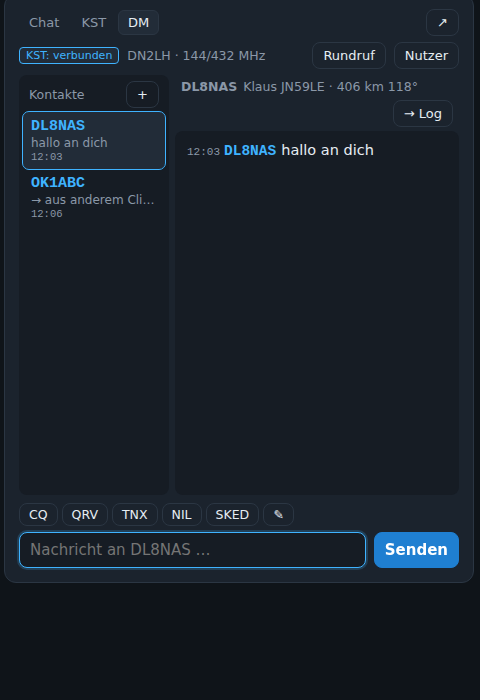
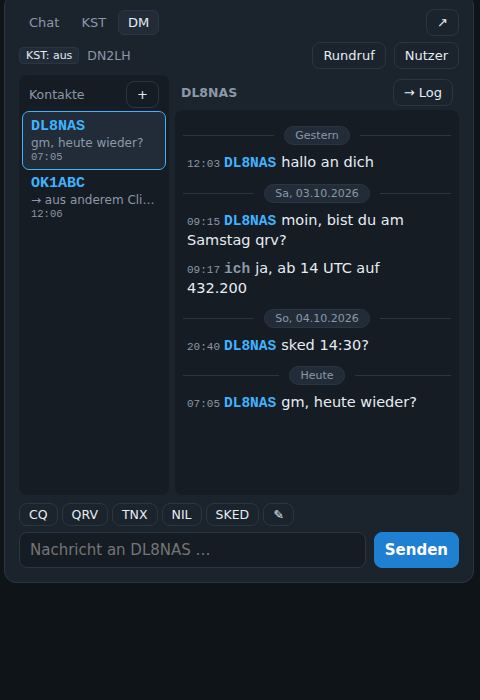
Karte: Pfeil trifft den Partnerpunkt, lesbares Label, größere Karte mit Flugzeugen; Tagestrenner im Chat; Verwaltung aufgeräumt
- Richtungspfeil als SVG, die Spitze liegt exakt auf dem Partnerpunkt; Stations-Label mit lesbarem Hintergrund neben dem Punkt (Logger und Operator)
- Flugzeuge: Karte wird mit eingeschalteter Flugzeug-Ebene höher (420 px), Einträge in der Liste sind anklickbar und
  springen mit der Karte zum Flugzeug (Logger und Operator-Fenster)
- Chat, KST und DM: Trennzeile mit Datum vor der ersten Nachricht eines neuen Tages („Heute“, „Gestern“, Wochentag + Datum)
- DM: beim Stations-/Contestwechsel wird das jüngste Gespräch der Station gezeigt statt des Partners der alten Station
  (der dort keinen Verlauf hatte); ohne Auswahl ist das jüngste Gespräch offen
- Operator-Fenster: alle Kacheln zentriert wie Entfernung/Richtung
- Verwaltung: ON4KST-Karte entfernt (steht bei der Station), Stationsdatenbank direkt unter den Contests, Formular
  als saubere Zeile, Repo-URL-Feld entfernt, „Nach neuen suchen (Repo)“ in die Updates-Karte, Repo-Export nur Betreuer
- Wiki (Chat/KST, Flugzeug-Scatter, Verwaltung, Updates, Stationsdatenbank) und Screenshots aktualisiert

diff --git a/contestlogger/static/app.js b/contestlogger/static/app.js
@@ -123,6 +123,18 @@
   const fromTpl = (id) => { const f = document.getElementById(id).content.cloneNode(true); const d = document.createElement("div"); d.append(f); translateDom(d); const out = document.createDocumentFragment(); while (d.firstChild) out.append(d.firstChild); return out; };
   const fmtTime = (ts) => ts ? ts.slice(11, 16) : "";
   const fmtDate = (ts) => ts ? `${ts.slice(8, 10)}.${ts.slice(5, 7)}.${ts.slice(0, 4)}` : "";
+  const WEEKDAYS = ["So", "Mo", "Di", "Mi", "Do", "Fr", "Sa"];
+  function dayLabel(ts) {  // „Heute“, „Gestern“ oder „Sa, 03.05.2025“ (UTC-Datum)
+    if (!ts) return ""; const d = ts.slice(0, 10); const now = new Date(); const today = now.toISOString().slice(0, 10);
+    const y = new Date(now.getTime() - 864e5).toISOString().slice(0, 10);
+    if (d === today) return t("Heute"); if (d === y) return t("Gestern");
+    return `${t(WEEKDAYS[new Date(d + "T00:00:00Z").getUTCDay()])}, ${fmtDate(ts)}`;
+  }
+  // Trenner einfügen, wenn der Tag der Nachricht vom zuletzt gezeigten abweicht (Zustand am Container)
+  function daySeparator(log, ts) {
+    const d = (ts || "").slice(0, 10); if (!d || log.dataset.lastDay === d) return;
+    log.dataset.lastDay = d; log.append(el("div", { class: "day" }, el("span", {}, dayLabel(ts))));
+  }
   const pad3 = (n) => String(n ?? "").padStart(3, "0");
   const station = () => S.contests.flatMap((c) => c.stations).find((s) => s.id === S.stationId);
   const contest = () => S.contests.find((c) => c.id === S.contestId);
@@ -868,8 +880,9 @@
     // Pfeilspitze in Linienrichtung
     const p1 = pts[pts.length - 2], p2 = pts[pts.length - 1];
     const ang = Math.atan2((p2[1] - p1[1]) * Math.cos(p2[0] * Math.PI / 180), p2[0] - p1[0]) * 180 / Math.PI;
-    L.marker(b, { icon: L.divIcon({ className: "arrow-icon", html: `<div style="transform:rotate(${ang - 90}deg)">➤</div>`, iconSize: [26, 26], iconAnchor: [13, 13] }), interactive: false }).addTo(m.layer);
-    if (label) L.marker(b, { icon: L.divIcon({ className: "map-label", html: label, iconAnchor: [-10, -10] }), interactive: false }).addTo(m.layer);
+    // Pfeilspitze: Spitze liegt genau auf dem Partnerpunkt, Körper zeigt entlang der Linie zurück
+    L.marker(b, { icon: L.divIcon({ className: "arrow-icon", html: `<svg viewBox="0 0 32 32" width="32" height="32" style="transform:rotate(${ang}deg)"><path d="M16 16 L25 31 L16 25 L7 31 Z" fill="#ff5c6c" stroke="#000" stroke-width="1"/></svg>`, iconSize: [32, 32], iconAnchor: [16, 16] }), interactive: false }).addTo(m.layer);
+    if (label) L.marker(b, { icon: L.divIcon({ className: "map-label", html: label, iconAnchor: [-18, 11] }), interactive: false }).addTo(m.layer);
     m.map.fitBounds(L.latLngBounds(pts), { padding: [30, 30], maxZoom: 9 });
   }
   function updateLogMap() {
@@ -908,10 +921,10 @@
       : `${t("kreuzt die Verlängerung des Pfads")} (km ${p.cross.km}) ${t("in")} ${p.eta_min != null ? Math.round(p.eta_min) : "> 60"} min`);
     return lines.join("<br>");
   }
-  function planeChip(p) {
+  function planeChip(p, onclick) {
     const txt = p.status === "soon" && p.cross ? `${p.flight || p.hex} ${p.type} FL${p.fl} · ${t("kreuzt in")} ${Math.round(p.eta_min)} min ${t("bei km")} ${p.cross.km} (${p.cross.utc.slice(0, 5)}) · +${km1(p.cross.margin_m || 0)} km`
       : `${p.flight || p.hex} ${p.type} FL${p.fl} · ${Math.abs(p.xt_km)} km ${t("vom Pfad")} · km ${p.at_km} · ${p.margin_m > 0 ? "+" : ""}${km1(p.margin_m)} km`;
-    const s = el("span", { class: `pl ${p.status}` }, (p.size === "heavy" ? "✈✈ " : "✈ ") + txt); s.innerHTML_title = 1; s.title = planeTitle(p).replace(/<[^>]+>/g, ""); return s;
+    const s = el("span", { class: `pl ${p.status}`, onclick, title: planeTitle(p).replace(/<[^>]+>/g, "") + "\n" + t("Klicken: Karte dorthin") }, (p.size === "heavy" ? "✈✈ " : "✈ ") + txt); return s;
   }
   function planeProfile(r) {
     // Seitenansicht: x = km entlang des Pfads, y = Höhe; Kurve = Mindesthöhe (Funkhorizont beider Stationen), Punkte = Flugzeuge
@@ -931,7 +944,10 @@
     on: localStorage.getItem("cl.planes") === "1", timer: null, last: "", busy: false, profile: localStorage.getItem("cl.planes.profile") !== "0",
     layer() { const m = makeMap("map-log"); if (!m) return null; if (!m.planes) { m.planes = L.layerGroup().addTo(m.map); m.zone = L.layerGroup().addTo(m.map); } return m; },
     toggle() { this.on = !this.on; localStorage.setItem("cl.planes", this.on ? "1" : "0"); $("#btn-planes").classList.toggle("active", this.on); $("#plane-list").classList.toggle("hidden", !this.on);
-      if (this.on) this.refresh(true); else { this.stop(); const m = this.layer(); if (m) { m.planes.clearLayers(); m.zone.clearLayers(); } } },
+      this.size(); if (this.on) this.refresh(true); else { this.stop(); const m = this.layer(); if (m) { m.planes.clearLayers(); m.zone.clearLayers(); } } },
+    size() { $(".map-card").classList.toggle("planes-on", this.on); const m = Maps["map-log"]; if (m) setTimeout(() => m.map.invalidateSize(), 250); },
+    markers: {},
+    goTo(p) { const m = this.layer(); if (!m) return; m.map.setView([p.lat, p.lon], Math.max(m.map.getZoom(), 8)); this.markers[p.hex]?.openTooltip(); },
     stop() { clearTimeout(this.timer); this.timer = null; },
     async refresh(now) {
       this.stop(); if (!this.on) return;
@@ -947,11 +963,11 @@
     },
     draw(r) {
       const m = this.layer(); if (!m) return;
-      m.planes.clearLayers(); m.zone.clearLayers();
+      m.planes.clearLayers(); m.zone.clearLayers(); this.markers = {};
       if (r.zone) L.polyline([r.zone.from, r.zone.to], { color: "#3ddc84", weight: 9, opacity: .45 }).bindTooltip(t("Zone gemeinsamer Sichtbarkeit (Reiseflughöhe): km {a}–{b} des Pfads", { a: r.zone.from_km, b: r.zone.to_km })).addTo(m.zone);
       for (const p of r.planes) {
         const st = p.status || (p.visible_both ? "visible" : "far"); const big = st === "hot" || p.size === "heavy";
-        L.marker([p.lat, p.lon], { icon: L.divIcon({ className: "plane-icon", html: `<div style="transform:rotate(${(p.track || 0) - 45}deg);color:${PLANE_COL[st]};font-size:${big ? 22 : 16}px">✈</div>`, iconSize: [24, 24], iconAnchor: [12, 12] }), interactive: true })
+        this.markers[p.hex] = L.marker([p.lat, p.lon], { icon: L.divIcon({ className: "plane-icon", html: `<div style="transform:rotate(${(p.track || 0) - 45}deg);color:${PLANE_COL[st]};font-size:${big ? 22 : 16}px">✈</div>`, iconSize: [24, 24], iconAnchor: [12, 12] }), interactive: true })
           .bindTooltip(planeTitle(p), { className: "plane-tip", direction: "top", offset: [0, -10] }).addTo(m.planes);
         if (p.cross && p.cross.on_path && (st === "soon" || st === "hot")) {  // vorhergesagter Kreuzungspunkt
           const frac = Math.max(0, Math.min(1, p.cross.km / r.dist_km)); const pt = pointAlong(r.path_from, r.path_to, frac);
@@ -962,14 +978,14 @@
       const hot = r.planes.filter((p) => p.status === "hot"), soon = r.planes.filter((p) => p.status === "soon");
       box.append(el("span", { class: "muted small" }, r.other ? `✈ ${r.planes.length} ${t("Flugzeuge")} · ${t("Korridor")} ±${r.corridor_km} km · ${r.zone ? t("Zone km {a}–{b}", { a: r.zone.from_km, b: r.zone.to_km }) : t("keine gemeinsame Sichtbarkeit (Pfad zu lang)")}` : `✈ ${r.planes.length} ${t("Flugzeuge im Umkreis")} – ${t("Locator eingeben für Pfad-Auswertung")}`),
         r.other ? el("button", { type: "button", class: "ghost small", title: t("Seitenansicht des Pfads (Mindesthöhe, Flugzeuge) ein-/ausblenden"), onclick: () => { this.profile = !this.profile; localStorage.setItem("cl.planes.profile", this.profile ? "1" : "0"); this.draw(r); } }, t("Profil")) : null);
-      for (const p of hot.slice(0, 5)) box.append(planeChip(p));
-      for (const p of soon.slice(0, 4)) box.append(planeChip(p));
+      for (const p of hot.slice(0, 5)) box.append(planeChip(p, () => this.goTo(p)));
+      for (const p of soon.slice(0, 4)) box.append(planeChip(p, () => this.goTo(p)));
       box.append(el("span", { class: "muted small attrib" }, r.attribution));
       if (this.profile && r.other) { const pr = planeProfile(r); if (pr) box.append(pr); }
     },
   };
   $("#btn-planes").addEventListener("click", () => Planes.toggle());
-  if (Planes.on) { $("#btn-planes").classList.add("active"); $("#plane-list").classList.remove("hidden"); setTimeout(() => Planes.refresh(true), 1500); }
+  if (Planes.on) { $("#btn-planes").classList.add("active"); $("#plane-list").classList.remove("hidden"); Planes.size(); setTimeout(() => Planes.refresh(true), 1500); }
   $("#adsb-form").addEventListener("submit", async (e) => {
     e.preventDefault();
     try { await api("POST", "/api/settings", { adsb_source: $("#adsb-source").value, adsb_local_url: $("#adsb-local").value.trim(), adsb_corridor_km: $("#adsb-corridor").value, adsb_antenna_m: $("#adsb-antenna").value }); toast(t("Einstellungen gespeichert"), "ok"); } catch (err) { toast(err.message, "err"); }
@@ -1084,12 +1100,13 @@
   };
   $$(".logwrap").forEach((w) => { const log = w.querySelector(".chat-log"); log.addEventListener("scroll", () => Scroll.update(log)); w.querySelector(".jump-down").addEventListener("click", () => Scroll.toBottom(log)); });
   async function loadChat() {
-    const log = $("#chat-log"); log.innerHTML = ""; S.chatContest = S.contestId;
+    const log = $("#chat-log"); log.innerHTML = ""; delete log.dataset.lastDay; S.chatContest = S.contestId;
     try { (await GET(`/api/chat?contest_id=${S.contestId || 0}`)).forEach(appendChat); } catch (_) { /* */ }
     Scroll.toBottom(log);
   }
   function appendChat(m) {
     const log = $("#chat-log"); const snap = Scroll.snapshot(log);
+    daySeparator(log, m.ts_utc);
     log.append(el("div", { class: "m" }, el("span", { class: "t" }, fmtTime(m.ts_utc)), el("span", { class: "n" }, m.nick + ": "), m.text));
     Scroll.restore(log, snap, m.nick === S.nick);
   }
@@ -1131,6 +1148,10 @@
       S.kst.msgs = await GET(`/api/kst/messages?${sidQ()}&limit=300`);
       S.kst.users = await GET(`/api/kst/users?${sidQ()}&my=${station()?.locator || ""}`);
     } catch (_) { /* */ }
+    // Beim Stationswechsel: der zuletzt offene DM-Partner gehört evtl. zur alten Station – dann das jüngste Gespräch dieser Station zeigen
+    const convs = dmConversations();
+    if (!S.kst.dm || !convs.find((c) => coreOf(c.call) === coreOf(S.kst.dm))) S.kst.dm = convs[0]?.call || "";
+    S.kst.dmShown = undefined;
     renderKstStatus(); renderKstUsers(); renderKst(); renderKstMacros();
   }
   function renderKstStatus() {
@@ -1196,10 +1217,11 @@
   }
   function renderKst() {
     const log = $("#kst-log"); const snap = Scroll.snapshot(log);
-    log.innerHTML = "";
+    log.innerHTML = ""; delete log.dataset.lastDay;
     const list = kstFiltered().slice(-400);
     for (const m of list) {
       const u = kstUser(m.call);
+      daySeparator(log, m.ts);
       log.append(el("div", { class: "m" + (m.to_me ? " me" : "") + (m.own ? " own" : "") },
         el("span", { class: "t" }, m.time),
         el("span", { class: "c", title: (u?.locator || m.locator || "") + " " + (m.name || ""), onclick: () => fillFromKst(m.call, u?.locator || m.locator) }, m.call),
@@ -1216,15 +1238,15 @@
       if (S.kst.dm) { const lastIn = [...list].reverse().find((m) => !m.own); const k = coreOf(S.kst.dm);
         if (lastIn && (S.kst.seen[k] || "") < lastIn.ts) { S.kst.seen[k] = lastIn.ts; api("POST", "/api/kst/seen", { station_id: S.stationId, partner: k, ts: lastIn.ts }).catch(() => {}); } }
       renderDmList();
-      const msgs = $("#kst-dm-msgs"); const dmSnap = Scroll.snapshot(msgs); const dmChanged = S.kst.dmShown !== S.kst.dm; S.kst.dmShown = S.kst.dm; msgs.innerHTML = "";
+      const msgs = $("#kst-dm-msgs"); const dmSnap = Scroll.snapshot(msgs); const dmChanged = S.kst.dmShown !== S.kst.dm; S.kst.dmShown = S.kst.dm; msgs.innerHTML = ""; delete msgs.dataset.lastDay;
       const u = S.kst.dm ? kstUser(S.kst.dm) : null;
       $("#kst-dm-head").innerHTML = "";
       if (S.kst.dm) {
         const dmLoc = u?.locator || list.find((m) => !m.own && m.locator)?.locator || "";
         $("#kst-dm-head").append(el("b", { class: "c", title: t("ins Log übernehmen"), onclick: () => fillFromKst(S.kst.dm, dmLoc) }, S.kst.dm), ` ${u?.name || ""} ${dmLoc}${u?.km != null ? ` · ${u.km} km ${u.bearing}°` : ""}`,
           el("button", { type: "button", class: "ghost small", style: "margin-left:auto", onclick: () => fillFromKst(S.kst.dm, dmLoc) }, "→ " + t("Log")));
-        for (const m of list) msgs.append(el("div", { class: "m" + (m.own ? " own" : "") }, el("span", { class: "t" }, m.time),
-          m.own ? el("span", { class: "c" }, t("ich")) : el("span", { class: "c", title: t("ins Log übernehmen"), onclick: () => fillFromKst(m.call, m.locator || dmLoc) }, m.call), el("span", { class: "txt" }, m.text)));
+        for (const m of list) { daySeparator(msgs, m.ts); msgs.append(el("div", { class: "m" + (m.own ? " own" : "") }, el("span", { class: "t" }, m.time),
+          m.own ? el("span", { class: "c" }, t("ich")) : el("span", { class: "c", title: t("ins Log übernehmen"), onclick: () => fillFromKst(m.call, m.locator || dmLoc) }, m.call), el("span", { class: "txt" }, m.text))); }
         if (!list.length) msgs.append(el("div", { class: "sys" }, t("Noch keine Nachrichten in diesem Gespräch.")));
         Scroll.restore(msgs, dmSnap, dmChanged);
       } else $("#kst-dm-head").textContent = t("Kontakt wählen");
@@ -1570,7 +1592,7 @@
       const cfg = await GET("/api/settings"); $("#lookup-provider").value = cfg.lookup_provider; $("#lookup-user").value = cfg.lookup_user || ""; $("#lookup-pass").placeholder = cfg.lookup_pass_set ? t("Passwort (gespeichert)") : t("Passwort");
       S.kstRooms = cfg.kst_rooms || {};
       $("#adsb-source").value = cfg.adsb_source || "adsb.fi"; $("#adsb-local").value = cfg.adsb_local_url || ""; $("#adsb-corridor").value = cfg.adsb_corridor_km ?? 12; $("#adsb-antenna").value = cfg.adsb_antenna_m ?? 15;
-      $("#repo-url").value = cfg.repo_url || ""; $("#upd-auto").checked = cfg.update_check !== false; $("#upd-current").textContent = `v${S.info.version}`;
+      $("#upd-auto").checked = cfg.update_check !== false; $("#upd-current").textContent = `v${S.info.version}`;
       if (S.update?.available) { $("#upd-result").textContent = t("Neue Version {v} verfügbar", { v: S.update.latest }); $("#btn-upd-apply").classList.toggle("hidden", !S.update.can_self_update); }
     } catch (_) { /* */ }
     renderBackups(); renderCallbook(); renderAudit();
@@ -1618,11 +1640,6 @@
   $("#btn-add-template").addEventListener("click", async () => {
     const tid = Number($("#tpl-add-sel").value); if (!tid || !S.contestId) return toast(t("Erst globale Station und Contest wählen"), "err");
     try { await api("POST", `/api/contests/${S.contestId}/stations/from_template`, { template_id: tid }); toast(t("Station aufgenommen"), "ok"); } catch (err) { toast(err.message, "err"); }
-  });
-  $("#repo-form").addEventListener("submit", async (e) => {
-    e.preventDefault();
-    const body = { repo_url: $("#repo-url").value.trim() };
-    try { await api("POST", "/api/settings", body); toast(t("Einstellungen gespeichert"), "ok"); renderAdmin(); } catch (err) { toast(err.message, "err"); }
   });
   $("#cb-list-form").addEventListener("submit", async (e) => {
     e.preventDefault(); const f = $("#cb-list-file").files[0]; if (!f) return;

diff --git a/contestlogger/static/index.html b/contestlogger/static/index.html
@@ -196,6 +196,24 @@
         <div class="table-wrap"><table id="admin-contests" class="compact fixed"><tbody></tbody></table></div>
       </div>
       <div class="card">
+        <h3>Stationsdatenbank (Call-Buch)</h3>
+        <p class="muted"><span id="cb-count">0</span> Rufzeichen mit Locator bekannt. Wächst automatisch mit jedem geloggten QSO und jedem Import; beim ersten Start wird die mitgelieferte Startdatenbank geladen.</p>
+        <input id="cb-search" placeholder="Suchen (Call, Locator, Name) …" class="small">
+        <div class="table-wrap" style="max-height:260px"><table id="cb-table" class="compact"><tbody></tbody></table></div>
+        <form id="cb-form" class="cb-form">
+          <input id="cb-call" placeholder="Rufzeichen" required><input id="cb-loc" placeholder="Locator" required><input id="cb-name" placeholder="Name"><input id="cb-dok" placeholder="DOK" maxlength="8"><button class="ghost">Speichern</button>
+        </form>
+        <div class="row cb-actions">
+          <a href="/api/callbook/export.csv" class="button ghost" download>Stationsdatenbank exportieren (CSV)</a>
+          <a href="/api/callbook/export_seed.csv" class="button ghost maint-only" download title="Call;Locator;Zuletzt;DOK – zum Einchecken als contestlogger/seed/stationsdatenbank.csv im Repo">Export im Repo-Format</a>
+        </div>
+        <p class="muted small maint-hide">Die Stationsdatenbank wird zentral gepflegt: „Nach neuen suchen (Repo)“ unter <b>Updates</b> holt die aktuelle Liste. Eigene Funde (neue Rufzeichen, Locator, DOKs) helfen allen – einfach „Stationsdatenbank exportieren (CSV)“ und die Datei an den Betreuer schicken, er pflegt sie in die Liste im Repo ein.</p>
+        <form id="cb-list-form" class="row maint-only">
+          <span class="tag">Betreuer</span><input type="file" id="cb-list-file" accept=".csv,.txt" required><button class="ghost small">Stationsliste einpflegen</button><span id="cb-list-result" class="muted small"></span>
+        </form>
+        <p class="muted small maint-only">Ablauf: „Export im Repo-Format“ herunterladen und als <code>contestlogger/seed/stationsdatenbank.csv</code> ins Repo einchecken; alle Installationen holen sie mit „Nach neuen suchen (Repo)“.</p>
+      </div>
+      <div class="card">
         <div class="card-head"><h3>Stationen im Contest <span id="admin-contest-name" class="muted"></span></h3><div class="row"><select id="tpl-add-sel" class="small"></select><button id="btn-add-template" class="primary small" title="Globale Station in diesen Contest aufnehmen">+ aufnehmen</button><button id="btn-new-station" class="ghost small" title="Station nur für diesen Contest anlegen">+ einmalig</button></div></div>
         <p class="muted small">Die Stationen dieses Contests mit eigenem Log und eigener laufender Nummer. Operatoren schalten die Station mit dem Passwort frei. Die Stations-ID (für CAT-Bridge und Operator-Fenster) steht in der Tabelle.</p>
         <div class="table-wrap"><table id="admin-stations" class="compact fixed"><tbody></tbody></table></div>
@@ -257,30 +275,6 @@
         </form>
       </div>
       <div class="card">
-        <h3>Stationsdatenbank (Call-Buch)</h3>
-        <p class="muted"><span id="cb-count">0</span> Rufzeichen mit Locator bekannt. Wächst automatisch mit jedem geloggten QSO und jedem Import; beim ersten Start wird die mitgelieferte Startdatenbank geladen.</p>
-        <input id="cb-search" placeholder="Suchen (Call, Locator, Name) …" class="small">
-        <div class="table-wrap" style="max-height:260px"><table id="cb-table" class="compact"><tbody></tbody></table></div>
-        <form id="cb-form" class="row">
-          <input id="cb-call" placeholder="Rufzeichen" required><input id="cb-loc" placeholder="Locator" required><input id="cb-name" placeholder="Name"><input id="cb-dok" placeholder="DOK" maxlength="8" style="max-width:90px"><button class="ghost">Speichern</button>
-        </form>
-        <div class="row">
-          <a href="/api/callbook/export.csv" class="button primary" download>Stationsdatenbank exportieren (CSV)</a>
-          <a href="/api/callbook/export_seed.csv" class="button ghost" download title="Call;Locator;Zuletzt – zum Einchecken als contestlogger/seed/stationsdatenbank.csv im Repo">Export im Repo-Format</a>
-          <button type="button" id="btn-cb-sync" class="ghost" title="Stationsdatenbank aus dem GitHub-Repo laden und neue Einträge übernehmen">Nach neuen suchen (Repo)</button>
-          <span id="cb-sync-result" class="muted small"></span>
-        </div>
-        <p class="muted small maint-hide">Die Stationsdatenbank wird zentral gepflegt: „Nach neuen suchen (Repo)“ holt die aktuelle Liste. Eigene Funde (neue Rufzeichen, Locator, DOKs) helfen allen – einfach „Stationsdatenbank exportieren (CSV)“ und die Datei an den Betreuer schicken, er pflegt sie in die Liste im Repo ein.</p>
-        <form id="cb-list-form" class="row maint-only">
-          <span class="tag">Betreuer</span><input type="file" id="cb-list-file" accept=".csv,.txt" required><button class="ghost small">Stationsliste einpflegen</button><span id="cb-list-result" class="muted small"></span>
-        </form>
-        <form id="repo-form" class="row">
-          <input id="repo-url" placeholder="Repo-Datei (GitHub-API-URL oder Raw-URL)" style="flex:1;min-width:260px">
-          <button class="ghost small">Speichern</button>
-        </form>
-        <p class="muted small">Ablauf: Hier „Export im Repo-Format“ herunterladen und als <code>contestlogger/seed/stationsdatenbank.csv</code> ins Repo einchecken; andere Installationen holen sie mit „Nach neuen suchen“.</p>
-      </div>
-      <div class="card">
         <h3>Backups auf dem Server</h3>
         <p class="muted small" id="backup-info">Der Server sichert die Datenbank automatisch (nur wenn sich etwas geändert hat) in den Ordner <code>backup/</code> neben der Datenbank; beim Beenden zusätzlich. Die Datenbank selbst läuft im WAL-Modus mit synchronem Schreiben – ein Stromausfall beschädigt sie nicht.</p>
         <p><button id="btn-backup" class="ghost">Jetzt sichern</button></p>
@@ -297,6 +291,11 @@
           <label class="row small"><input type="checkbox" id="upd-auto" checked> automatisch prüfen</label>
         </div>
         <div id="upd-result" class="muted small"></div>
+        <div class="row" style="margin-top:8px">
+          <b class="small">Stationsdatenbank</b>
+          <button type="button" id="btn-cb-sync" class="ghost" title="Stationsdatenbank aus dem GitHub-Repo laden und neue Einträge übernehmen">Nach neuen suchen (Repo)</button>
+          <span id="cb-sync-result" class="muted small"></span>
+        </div>
       </div>
       <div class="card">
         <h3>Aktionsprotokoll</h3>
@@ -317,10 +316,6 @@
           </div>
           <div id="lookup-result" class="muted small"></div>
         </form>
-      </div>
-      <div class="card">
-        <h3>ON4KST-Chat</h3>
-        <p class="muted small">Der KST-Chat (Telnet, <code>www.on4kst.info:23000</code>) wird <b>je Station</b> verbunden: Zugangsdaten, Raum und Autostart stehen bei der Station (Stationen → ✎). Jede Station hat so ihren eigenen Chat; die Nutzerliste wird alle 10 Minuten geholt und Nutzer mit Locator wandern automatisch in die Stationsdatenbank. Das Passwort geht im Klartext über das Netz – ein eigenes KST-Passwort verwenden.</p>
       </div>
       <div class="card">
         <h3>Karte</h3>

diff --git a/contestlogger/static/operator.html b/contestlogger/static/operator.html
@@ -25,7 +25,7 @@
   .dupe.hidden { display:none; }
   /* Reihenfolge wie im Logger: Rufzeichen · RST geg. · Nr geg. · RST erh. · Nr erh. · Locator · km/° */
   .tiles { display:grid; grid-template-columns: 2.2fr 1fr 1.2fr 1fr 1.2fr 1.5fr 1.6fr; gap:10px; }
-  .tile { background:var(--card); border:1px solid var(--line); border-radius:12px; padding:10px 12px; min-width:0; }
+  .tile { background:var(--card); border:1px solid var(--line); border-radius:12px; padding:10px 12px; min-width:0; text-align:center; }
   .tile span { display:block; color:var(--muted); font-size:13px; letter-spacing:.04em; text-transform:uppercase; }
   .tile b { display:block; font:700 clamp(26px, 3.8vw, 58px)/1.15 var(--mono); white-space:nowrap; overflow:hidden; text-overflow:ellipsis; }
   .tile.call b { color:var(--accent); }
@@ -58,8 +58,11 @@
   .pbtn.active { color:var(--warn); border-color:var(--warn); }
   .plist { display:flex; flex-wrap:wrap; gap:4px 10px; font:13px var(--mono); color:var(--muted); padding:4px 4px 0; min-height:0; }
   .plist:empty { display:none; }
+  .plist .pl { cursor:pointer; } .plist .pl:hover { text-decoration:underline; }
   .plist .hot { color:var(--warn); font-weight:700; }
-  .map-label { background:var(--card); color:var(--text); border:1px solid var(--line); border-radius:6px; padding:2px 6px; font-family:var(--mono); font-size:13px; white-space:nowrap; }
+  .map-label { background:rgba(18,22,28,.88); color:#fff; border:1px solid rgba(255,255,255,.25); border-radius:6px; padding:3px 7px; font-family:var(--mono); font-size:13px; white-space:nowrap; line-height:1.2; width:auto !important; height:auto !important; }
+  .leaflet-div-icon { background:transparent; border:none; }
+  .arrow-icon { background:transparent; border:none; filter:drop-shadow(0 0 3px rgba(0,0,0,.8)); }
   .list { min-height:0; background:var(--card); border:1px solid var(--line); border-radius:12px; overflow:auto; }
   table { width:100%; border-collapse:collapse; font:16px var(--mono); }
   th, td { padding:5px 9px; text-align:left; border-bottom:1px solid var(--line); white-space:nowrap; }
@@ -167,8 +170,9 @@
     L.polyline(pts, { color: "#ff5c6c", weight: 3, opacity: .9 }).addTo(m.layer);
     const p1 = pts[pts.length - 2], p2 = pts[pts.length - 1];
     const ang = Math.atan2((p2[1] - p1[1]) * Math.cos(p2[0] * Math.PI / 180), p2[0] - p1[0]) * 180 / Math.PI;
-    L.marker(b, { icon: L.divIcon({ className: "arrow-icon", html: `<div style="transform:rotate(${ang - 90}deg)">➤</div>`, iconSize: [26, 26], iconAnchor: [13, 13] }), interactive: false }).addTo(m.layer);
-    if (label) L.marker(b, { icon: L.divIcon({ className: "map-label", html: label, iconAnchor: [-10, -10] }), interactive: false }).addTo(m.layer);
+    // Pfeilspitze: Spitze liegt genau auf dem Partnerpunkt, Körper zeigt entlang der Linie zurück
+    L.marker(b, { icon: L.divIcon({ className: "arrow-icon", html: `<svg viewBox="0 0 32 32" width="32" height="32" style="transform:rotate(${ang}deg)"><path d="M16 16 L25 31 L16 25 L7 31 Z" fill="#ff5c6c" stroke="#000" stroke-width="1"/></svg>`, iconSize: [32, 32], iconAnchor: [16, 16] }), interactive: false }).addTo(m.layer);
+    if (label) L.marker(b, { icon: L.divIcon({ className: "map-label", html: label, iconAnchor: [-18, 11] }), interactive: false }).addTo(m.layer);
     m.map.fitBounds(L.latLngBounds(pts), { padding: [30, 30], maxZoom: 9 });
     $("#map-info").textContent = label || loc;
   }
@@ -261,10 +265,12 @@
         `FL${p.fl} = ${km1(p.alt_m)} km · ${p.gs_kmh} km/h · Kurs ${Math.round(p.track)}°`,
         `Mindesthöhe ${km1(p.req_m)} km → <b style="color:${p.margin_m > 0 ? "#3ddc84" : "#ff6b6b"}">${p.margin_m > 0 ? "+" : ""}${km1(p.margin_m)} km</b> Reserve · ${Math.abs(p.xt_km)} km vom Pfad · Elevation ${p.elev1}° / ${p.elev2}°`,
         p.cross && p.cross.on_path ? `<b>kreuzt in ${p.eta_min != null ? Math.round(p.eta_min) : "> 60"} min</b> um ${p.cross.utc} UTC bei km ${p.cross.km}${p.cross.in_zone ? " ✓ Zone" : ""}${p.cross.margin_m != null ? ` · dort ${p.cross.margin_m > 0 ? "+" : ""}${km1(p.cross.margin_m)} km` : ""}` : ""].filter(Boolean).join("<br>");
-      for (const p of r.planes) { const st = p.status || "far"; const big = st === "hot" || p.size === "heavy"; L.marker([p.lat, p.lon], { icon: L.divIcon({ className: "plane-icon", html: `<div style="transform:rotate(${(p.track || 0) - 45}deg);color:${COL[st]};font-size:${big ? 22 : 16}px">✈</div>`, iconSize: [24, 24], iconAnchor: [12, 12] }) }).bindTooltip(tip(p), { className: "plane-tip", direction: "top", offset: [0, -10] }).addTo(m.planes); }
+      const markers = {};
+      for (const p of r.planes) { const st = p.status || "far"; const big = st === "hot" || p.size === "heavy"; markers[p.hex] = L.marker([p.lat, p.lon], { icon: L.divIcon({ className: "plane-icon", html: `<div style="transform:rotate(${(p.track || 0) - 45}deg);color:${COL[st]};font-size:${big ? 22 : 16}px">✈</div>`, iconSize: [24, 24], iconAnchor: [12, 12] }) }).bindTooltip(tip(p), { className: "plane-tip", direction: "top", offset: [0, -10] }).addTo(m.planes); }
       const box = $("#plane-list"); box.innerHTML = "";
-      for (const p of r.planes.filter((p) => p.status === "hot").slice(0, 5)) { const s = document.createElement("span"); s.className = "hot"; s.textContent = `✈ ${p.flight || p.hex} ${p.type} FL${p.fl} · ${Math.abs(p.xt_km)} km vom Pfad · +${km1(p.margin_m)} km`; s.title = tip(p).replace(/<[^>]+>/g, ""); box.append(s); }
-      for (const p of r.planes.filter((p) => p.status === "soon").slice(0, 3)) { const s = document.createElement("span"); s.className = "soon"; s.textContent = `${p.flight || p.hex} kreuzt in ${Math.round(p.eta_min)} min bei km ${p.cross.km} (${p.cross.utc.slice(0, 5)} UTC)`; s.title = tip(p).replace(/<[^>]+>/g, ""); box.append(s); }
+      const goTo = (p) => { m.map.setView([p.lat, p.lon], Math.max(m.map.getZoom(), 8)); markers[p.hex]?.openTooltip(); };
+      for (const p of r.planes.filter((p) => p.status === "hot").slice(0, 5)) { const s = document.createElement("span"); s.className = "hot pl"; s.textContent = `✈ ${p.flight || p.hex} ${p.type} FL${p.fl} · ${Math.abs(p.xt_km)} km vom Pfad · +${km1(p.margin_m)} km`; s.title = tip(p).replace(/<[^>]+>/g, ""); s.onclick = () => goTo(p); box.append(s); }
+      for (const p of r.planes.filter((p) => p.status === "soon").slice(0, 3)) { const s = document.createElement("span"); s.className = "soon pl"; s.textContent = `${p.flight || p.hex} kreuzt in ${Math.round(p.eta_min)} min bei km ${p.cross.km} (${p.cross.utc.slice(0, 5)} UTC)`; s.title = tip(p).replace(/<[^>]+>/g, ""); s.onclick = () => goTo(p); box.append(s); }
     } catch (e) { $("#plane-list").textContent = "✈ " + e.message; }
     planeTimer = setTimeout(refreshPlanes, 5000);
   }

diff --git a/contestlogger/static/style.css b/contestlogger/static/style.css
@@ -172,6 +172,10 @@ table.compact td, table.compact th { padding: 5px 6px; font-size: 13.5px; }
 .chat-log .m .n { font-weight: 700; color: var(--accent); }
 .chat-log .m .t { color: var(--muted); font-size: 11px; margin-right: 4px; font-family: var(--mono); }
 .chat-log .sys { color: var(--muted); font-style: italic; }
+/* Tagestrenner wie in Messengern: Linie mit Datum in der Mitte, nur bei der ersten Nachricht eines Tages */
+.chat-log .day, .kst-log .day, #kst-dm-msgs .day { display: flex; align-items: center; gap: 10px; margin: 8px 0 6px; color: var(--muted); font-size: 11px; }
+.chat-log .day::before, .chat-log .day::after, .kst-log .day::before, .kst-log .day::after, #kst-dm-msgs .day::before, #kst-dm-msgs .day::after { content: ""; flex: 1; border-top: 1px solid var(--line); }
+.chat-log .day span, .kst-log .day span, #kst-dm-msgs .day span { background: var(--card2); border: 1px solid var(--line); border-radius: 999px; padding: 2px 10px; }
 #chat-form input { flex: 1; }
 
 /* ---------- Statistik ---------- */
@@ -230,8 +234,9 @@ body.bigscreen .kpis.big .kpi b { font-size: 56px; }
 .map { height: 260px; border-radius: 8px; background: var(--bg2); position: relative; z-index: 0; isolation: isolate; }
 .map.tall { height: 60vh; }
 .leaflet-container { font: inherit; }
-.arrow-icon { font-size: 26px; color: #ff5c6c; text-shadow: 0 0 4px #000; line-height: 1; }
-.map-label { background: var(--card); color: var(--text); border: 1px solid var(--line); border-radius: 6px; padding: 2px 6px; font-family: var(--mono); font-size: 12px; white-space: nowrap; }
+.arrow-icon { background: transparent; border: none; filter: drop-shadow(0 0 3px rgba(0,0,0,.8)); }
+.leaflet-div-icon { background: transparent; border: none; }
+.map-label { background: rgba(18,22,28,.88); color: #fff; border: 1px solid rgba(255,255,255,.25); border-radius: 6px; padding: 3px 7px; font-family: var(--mono); font-size: 12px; white-space: nowrap; line-height: 1.2; width: auto !important; height: auto !important; }
 #lang-select { padding: 3px 6px; font-size: 12.5px; }
 /* Kompakte Statistik-Zeile unter der Eingabe */
 .statline { display: flex; flex-wrap: wrap; gap: 6px 18px; align-items: baseline; padding: 6px 14px; margin-bottom: 12px;
@@ -239,7 +244,12 @@ body.bigscreen .kpis.big .kpi b { font-size: 56px; }
 .statline .st b { font-family: var(--mono); font-size: 17px; color: var(--text); margin-right: 4px; }
 .statline .st { color: var(--muted); white-space: nowrap; }
 .statline .st.odx b { color: var(--accent); }
-.map-card .map { height: 220px; }
+.map-card .map { height: 220px; transition: height .2s; }
+.map-card.planes-on .map { height: 420px; }  /* mit Flugzeugen mehr Platz für den Pfad */
+.cb-form { display: grid; grid-template-columns: 1.3fr 1fr 1.4fr .7fr auto; gap: 6px; align-items: center; margin: 8px 0; }
+.cb-form input { min-width: 0; width: 100%; }
+.cb-actions { margin-top: 4px; }
+.plane-list .pl { cursor: pointer; } .plane-list .pl:hover { filter: brightness(1.2); text-decoration: underline; }
 /* Laufende Nummer deutlich hervorheben */
 .qso-form input#f-nr-sent, .qso-form input#f-nr-sent[readonly] {
   color: #04121f; background: var(--warn); border-color: var(--warn); font-weight: 800; font-size: 24px; text-align: center;

diff --git a/docs/wiki/Flugzeug-Scatter.md b/docs/wiki/Flugzeug-Scatter.md
@@ -11,6 +11,7 @@ Wie AirScout zeigt ContestLogger Flugzeuge zwischen dir und dem Partner und bewe
 - **Gelb**: kreuzt den Pfad in den nächsten 20 Minuten an einer Stelle, an der es hoch genug ist. **Hellblau**: beidseitig sichtbar, aber neben dem Pfad. **Grau**: außer Reichweite. **Rotbraun**: zu tief.
 - Große Flugzeuge (A380, B747, B777, A350 … bzw. ADS-B-Kategorie „schwer“) erscheinen größer (✈✈) – sie reflektieren deutlich besser.
 - **Hovern** über ein Flugzeug zeigt wie in AirScout: Typ und Größenklasse, Flughöhe, Geschwindigkeit, Kurs, Steigen/Sinken, die **Mindesthöhe** an seiner Position (ab der beide Stationen es über dem Funkhorizont sehen) und die **Höhenreserve** (Flughöhe minus Mindesthöhe, grün = sichtbar, rot = zu tief), Abstand vom Pfad, Elevationswinkel von beiden Stationen und – wenn es auf den Pfad zufliegt – **wann (UTC) und bei welchem Pfad-Kilometer es die Linie voraussichtlich kreuzt**, ob dieser Punkt in der Zone liegt und wie viel Reserve es dort hat. Der vorhergesagte Kreuzungspunkt wird auf dem Pfad markiert.
+- Mit eingeschalteten Flugzeugen wird die Karte höher. Ein Klick auf einen Eintrag in der Liste springt mit der Karte zum Flugzeug und öffnet seine Details.
 - Liste unter der Karte: zuerst die Flugzeuge im Korridor (Abstand, Pfad-km, Reserve), dann die, die bald kreuzen (Minuten, km, UTC-Zeit, Reserve am Kreuzungspunkt). Hover auf einen Eintrag zeigt dieselben Details.
 - **Profil**: Seitenansicht des Pfads wie in AirScout – rote Kurve = Mindesthöhe entlang des Pfads (Funkhorizont beider Stationen), grüner Balken = Zone bei Reiseflughöhe, Punkte = Flugzeuge in ihrer Höhe. Über die Punkte hovern zeigt die Details; der Knopf „Profil“ blendet die Ansicht aus.
 - Ohne Partner-Locator: Flugzeuge im Umkreis von 150 km um die eigene Station.

diff --git a/docs/wiki/Stationsdatenbank.md b/docs/wiki/Stationsdatenbank.md
@@ -28,7 +28,7 @@ Regeln: Der neueste DOK gewinnt (ein Rufzeichen kann den OV wechseln). Der neues
 
 Die Liste wird **zentral** gepflegt, damit alle dieselben, geprüften Daten haben:
 
-- **Normale Installation**: bekommt die Liste über „Nach neuen suchen (Repo)“. Die Quellen-Importe (Ergebnislisten, DARC-Contest-Hub) sind ausgeblendet. Eigene Funde (neue Rufzeichen, Locator, DOKs aus den Logs) gibt man weiter: „Stationsdatenbank exportieren (CSV)“ und die Datei an den Betreuer schicken.
+- **Normale Installation**: bekommt die Liste über „Nach neuen suchen (Repo)“ (Verwaltung → Updates). Die Quellen-Importe (Ergebnislisten, DARC-Contest-Hub) sind ausgeblendet. Eigene Funde (neue Rufzeichen, Locator, DOKs aus den Logs) gibt man weiter: „Stationsdatenbank exportieren (CSV)“ und die Datei an den Betreuer schicken.
 - **Betreuer** (`MAINTAINER=1` in `contestlogger.env`, dann Server neu starten): sieht zusätzlich die Importkarten und unter der Stationsdatenbank „Stationsliste einpflegen“ für die eingeschickten CSV-Dateien (DOK, Name und „zuletzt gesehen“ werden übernommen, der neuere Stand gewinnt). Danach „Export im Repo-Format“ und die Datei als `contestlogger/seed/stationsdatenbank.csv` ins Repo einchecken – beim nächsten „Nach neuen suchen“ haben alle den Stand.
 
 ## Abgleich mit dem Repo

diff --git a/docs/wiki/Verwaltung.md b/docs/wiki/Verwaltung.md
@@ -22,13 +22,13 @@ EDI je Station (mit Prüfung), ADIF, CSV, alle Bänder als EDI-ZIP. Siehe [Impor
 WinContest-Ordner, Ergebnislisten, DARC-Contest-Hub, einzelne Datei. Siehe [Import und Export](Import-Export.md).
 
 ## Stationsdatenbank (Callbuch)
-Suche, Bearbeiten, Löschen, Export (CSV, Repo-Format), Abgleich mit dem Repo (URL). Siehe [Stationsdatenbank](Stationsdatenbank.md).
+Suche, Bearbeiten (auch DOK), Löschen, Export (CSV; Repo-Format nur im Betreuer-Modus). Der Abgleich mit dem Repo („Nach neuen suchen“) steht unter **Updates**. Siehe [Stationsdatenbank](Stationsdatenbank.md).
 
 ## Backups auf dem Server
 Der Server sichert die Datenbank automatisch (nur bei Änderungen) in den Ordner `backup/` neben der Datenbank, zusätzlich beim Beenden und vor jedem Update. „Jetzt sichern“ erzeugt eine Sicherung sofort. Die Liste zeigt die vorhandenen Sicherungen. Es gibt bewusst keine Sicherung im Browser und keinen Offline-Modus: die Daten liegen nur auf dem Server.
 
 ## Updates
-Update-Prüfung, Selbst-Aktualisierung, „News anzeigen“. Siehe [Updates](Updates.md).
+Update-Prüfung, Selbst-Aktualisierung, „News anzeigen“ und „Nach neuen suchen (Repo)“ für die Stationsdatenbank. Siehe [Updates](Updates.md).
 
 ## Aktionsprotokoll
 

diff --git a/docs/wiki/Updates.md b/docs/wiki/Updates.md
@@ -8,6 +8,10 @@ Der Server prüft stündlich die GitHub-Releases (Verwaltung → Updates → „
 
 Das Repo ist öffentlich, ein Token ist nicht nötig. (Nur für ein privates Fork: `GITHUB_TOKEN` in `contestlogger.env` setzen.)
 
+## Stationsdatenbank aktualisieren
+
+„Nach neuen suchen (Repo)“ in derselben Karte holt die zentral gepflegte Stationsdatenbank aus dem Repo und übernimmt neue Rufzeichen, geänderte Locator und DOKs. Siehe [Stationsdatenbank](Stationsdatenbank.md).
+
 ## Jetzt aktualisieren (portable Version)
 
 „Jetzt aktualisieren“ lädt das ZIP für die eigene Plattform, entpackt es, ersetzt die Programmdateien (der Ordner `data/` bleibt unangetastet), schreibt vorher eine Sicherung und startet den Server neu. Alle Browser verbinden sich automatisch wieder.

diff --git a/docs/wiki/Chat-KST.md b/docs/wiki/Chat-KST.md
@@ -53,3 +53,7 @@ Spricht gezielt KST-Nutzer im Umkreis an, die in diesem Log noch fehlen:
 3. Text wählen oder eingeben; eigene Texte lassen sich speichern (für alle Operatoren). Platzhalter wie bei den Textbausteinen.
 4. „An ausgewählte senden“ schickt jedem Empfänger eine eigene `/CQ`-Nachricht mit 2 s Abstand; die Sendeliste zeigt, wer schon dran war.
 5. „Nächste →“ dreht die Auswahl auf die nächsten noch nicht angeschriebenen Kandidaten.
+
+## Tagestrenner
+
+In allen drei Verläufen (Chat, KST, DM) steht vor der ersten Nachricht eines neuen Tages eine Trennzeile mit dem Datum („Heute“, „Gestern“, sonst Wochentag und Datum, UTC) – wie in Messengern.
